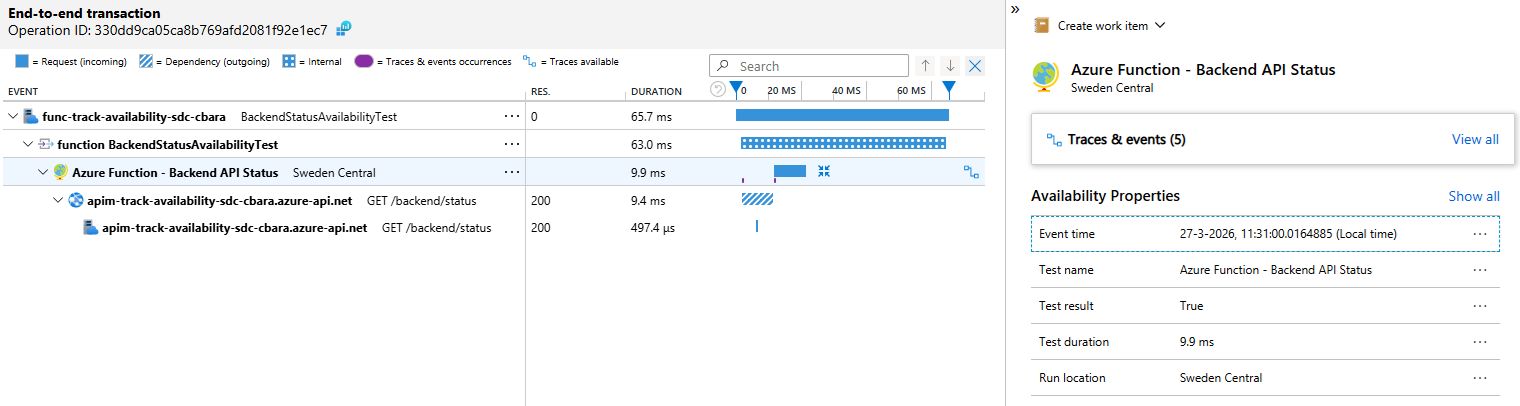
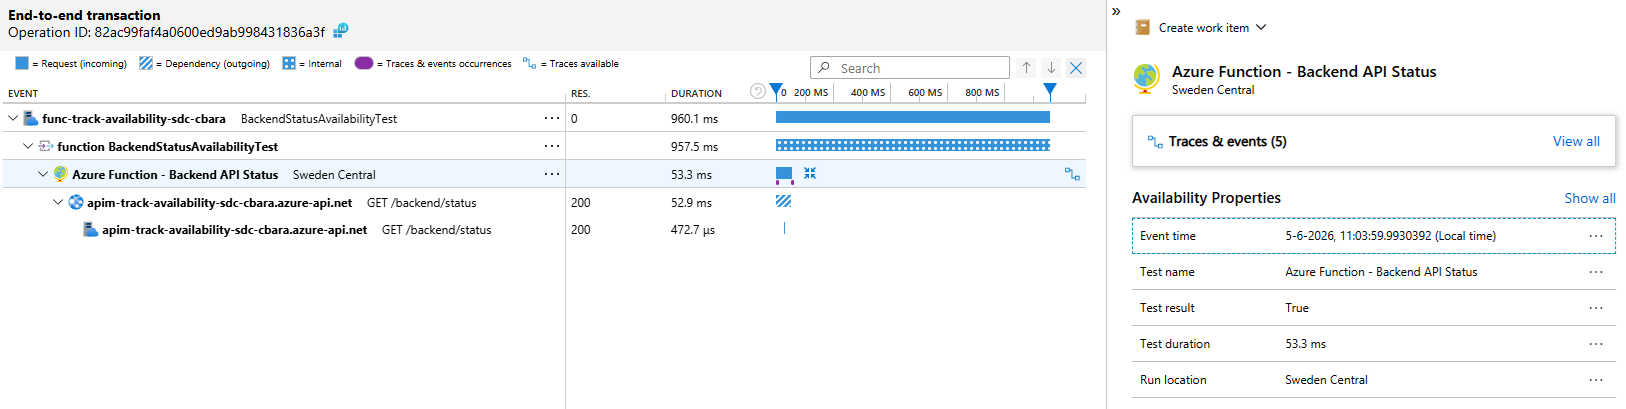
Update "Track Availability in Application Insights using .NET" now that timestamp issue has been solved Also fix some links

diff --git a/content/blog/track-availability-in-app-insights-series/track-availability-in-app-insights-using-dotnet/index.md b/content/blog/track-availability-in-app-insights-series/track-availability-in-app-insights-using-dotnet/index.md
@@ -2,7 +2,7 @@
 title: "Track Availability in Application Insights using .NET"
 date: 2026-01-19T09:00:00+01:00
 publishdate: 2026-01-19T09:00:00+01:00
-lastmod: 2026-03-27T15:30:00+01:00
+lastmod: 2026-05-08T11:15:00+02:00
 tags: [ "Azure", "Application Insights", "Azure Monitor", "Azure Functions", "Azure Integration Services", ".NET" ]
 series: [ "track-availability-in-app-insights" ]
 summary: "Standard availability tests in Application Insights have limitations like no multi-step authentication, no mTLS support and no access to private networks. This post shows you how to create custom availability tests using .NET and Azure Functions to overcome these restrictions while gaining full control over your monitoring logic."
@@ -176,9 +176,7 @@ internal class AvailabilityTest(
 
 This implementation addresses the shortcomings of the basic example. It uses a `Stopwatch` to measure the test duration and sets the timestamp to capture when the test started. It also uses an `Activity` to enable distributed tracing. By creating an activity and linking it to the availability telemetry through the span id, Application Insights can correlate the availability test results with any HTTP requests or other telemetry generated during the test execution. This gives you the end-to-end transaction view that's essential for troubleshooting failures.
 
-> In the [official documentation](https://learn.microsoft.com/en-us/azure/azure-monitor/app/availability?tabs=track#add-and-edit-code-in-the-app-service-editor) the `availability.Timestamp` is set in the finally block, after the check has completed. However, this records the end time of the test rather than the start time, which messes up the timeline in the end-to-end transaction details in App Insights. By setting it at the beginning of the `ExecuteAsync` method, we accurately capture when the test started.  
->  
-> Unfortunately, when using the new version 3.x of the Application Insights .NET SDK, the timestamp is ignored and the end-to-end transaction details are affected. See the issue [Timestamp on AvailabilityTelemetry ignored by TelemetryClient.TrackAvailability](https://github.com/microsoft/ApplicationInsights-dotnet/issues/3152) for more information.
+> In the [official documentation](https://learn.microsoft.com/en-us/previous-versions/azure/azure-monitor/app/classic-api?tabs=dotnet%2Cnet#custom-availability-tests-with-trackavailability) the `availability.Timestamp` is set in the finally block, after the check has completed. However, this records the end time of the test rather than the start time, which messes up the timeline in the end-to-end transaction details in App Insights. By setting it at the beginning of the `ExecuteAsync` method, we accurately capture when the test started.  
 
 The [AvailabilityTestFactory](https://github.com/ronaldbosma/track-availability-in-app-insights/blob/main/src/functionApp/TrackAvailabilityInAppInsights.FunctionApp/AvailabilityTests/AvailabilityTestFactory.cs) creates instances of `AvailabilityTest`. I introduced this factory because `AvailabilityTest` has dependencies like `TelemetryClient` that aren't relevant for the client code to know about. The factory handles these dependencies and provides a clean interface for creating tests.
 
@@ -211,7 +209,7 @@ The `APPLICATIONINSIGHTS_CONNECTION_STRING` holds the connection string for your
 
 The `ConfigureOpenTelemetryBuilder` call sets the `Cloud.RoleName`, `Cloud.RoleInstance` and `Component.Version` on the telemetry. Without it, the role name shows up as `unknown_service:dotnet` in Application Insights. `WEBSITE_SITE_NAME` is set automatically by Azure Functions and App Service, providing a recognizable label. It falls back to the machine name when not set, e.g. when running locally.
 
-The `SetAzureTokenCredential` call is optional and configures the `TelemetryClient` to use a managed identity for authentication instead of relying on the connection string alone. See the [Azure AD authentication for Application Insights](https://learn.microsoft.com/en-us/azure/azure-monitor/app/azure-ad-authentication) documentation for more details.
+The `SetAzureTokenCredential` call is optional and configures the `TelemetryClient` to use a managed identity for authentication instead of relying on the connection string alone. See the [Microsoft Entra authentication for Application Insights](https://learn.microsoft.com/en-us/azure/azure-monitor/app/azure-ad-authentication) documentation for more details.
 
 The following sequence diagram shows how these classes work together:
 
@@ -352,8 +350,6 @@ The end-to-end transaction details show how the availability test result is corr
 
 This correlation is enabled by the `Activity` we created in the `AvailabilityTest` class. It allows you to see the complete flow of the test execution, including any HTTP requests, dependencies or exceptions that occurred during the test.
 
-> As mentioned before, currently the timestamp on the availability telemetry is ignored when using version 3.x of the Application Insights .NET SDK, which affects the timeline in the end-to-end transaction details.
-
 ## Setting Up Alerts
 
 The [enable alerts](https://learn.microsoft.com/en-us/azure/azure-monitor/app/availability?tabs=track#enable-alerts) sample in the documentation shows how to enable an alert on a standard test, similar to what I showed in the previous post (through Bicep). However, with custom availability tests we don't have an actual web test resource in Azure to bind the alert to. Instead, we need to create an alert based on the availability metrics.
@@ -447,7 +443,7 @@ dimensions: [
 
 This configuration will only trigger alerts for the specified test, allowing you to take different actions or handle different tests with different severity levels.
 
-> Instead of creating multiple similar alert rules for different tests, you can also use [alert processing rules](https://learn.microsoft.com/en-us/azure/azure-monitor/alerts/alerts-processing-rules/) to add or remove action groups based on the test name. This way, you can have a single alert rule for all tests and use processing rules to customize the notification behavior per test. I cover this in more detail in [this post](/blog/2026/02/02/alert-processing-rules-in-bicep-suppress-and-route-azure-monitor-alerts/).
+> Instead of creating multiple similar alert rules for different tests, you can also use [alert processing rules](https://learn.microsoft.com/en-us/azure/azure-monitor/alerts/alerts-processing-rules/) to add or remove action groups based on the test name. This way, you can have a single alert rule for all tests and use processing rules to customize the notification behavior per test. I cover this in more detail in [this post](/blog/2026/02/02/alert-processing-rules-in-bicep-add-action-groups-or-suppress-notifications/).
 
 ## Considerations
 